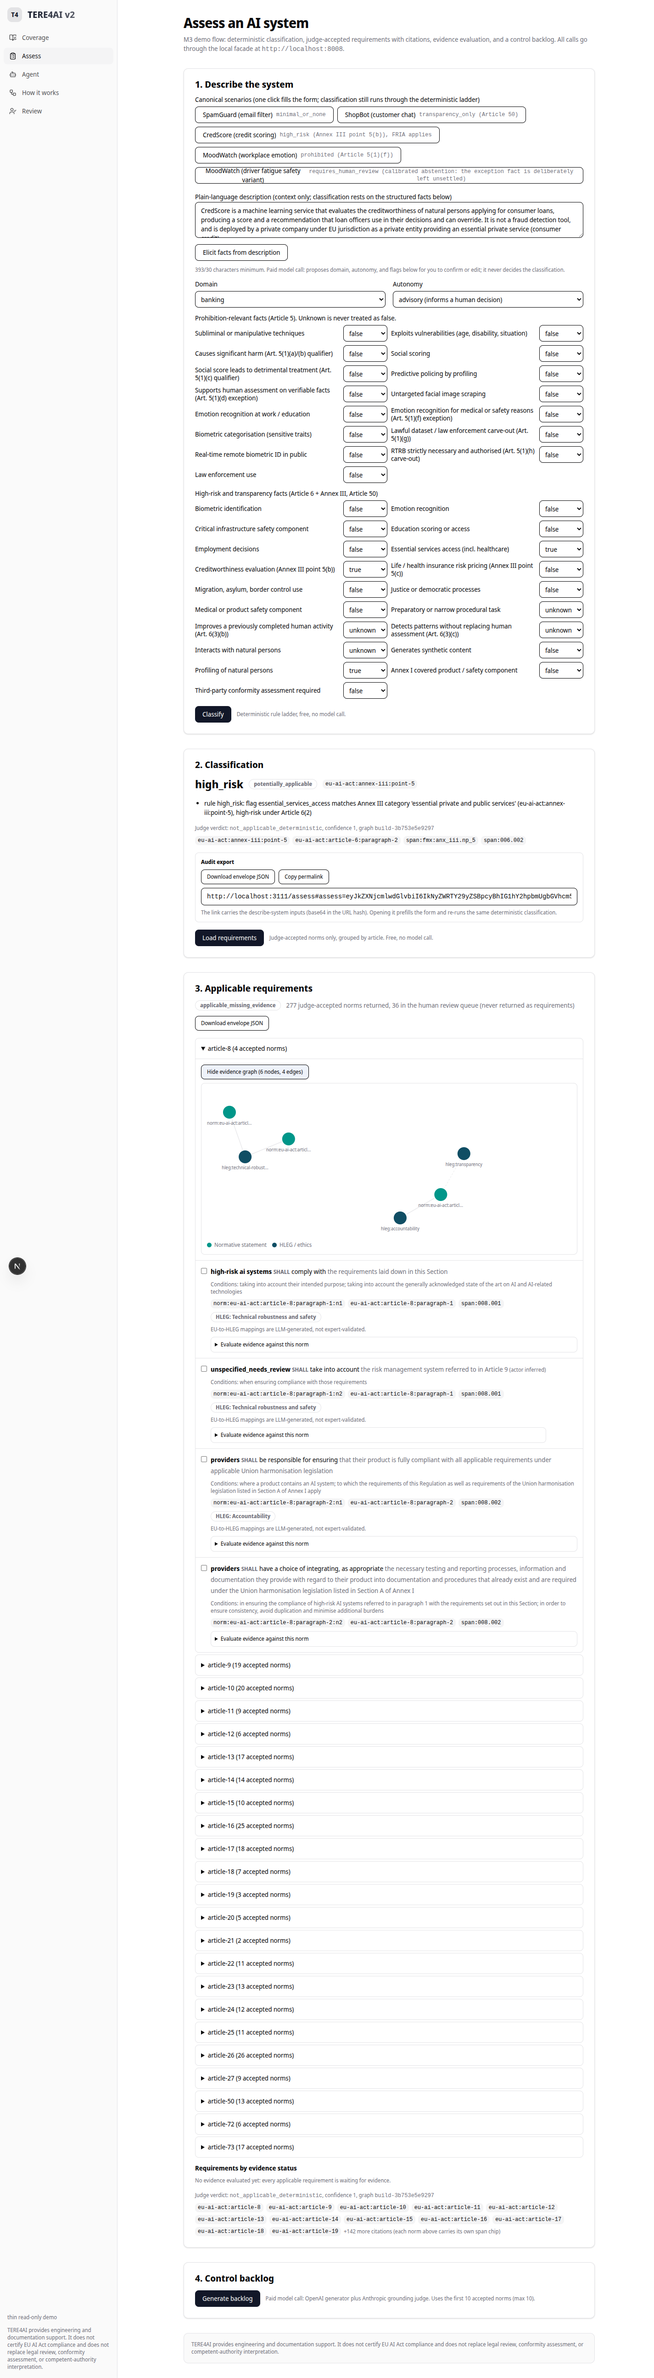
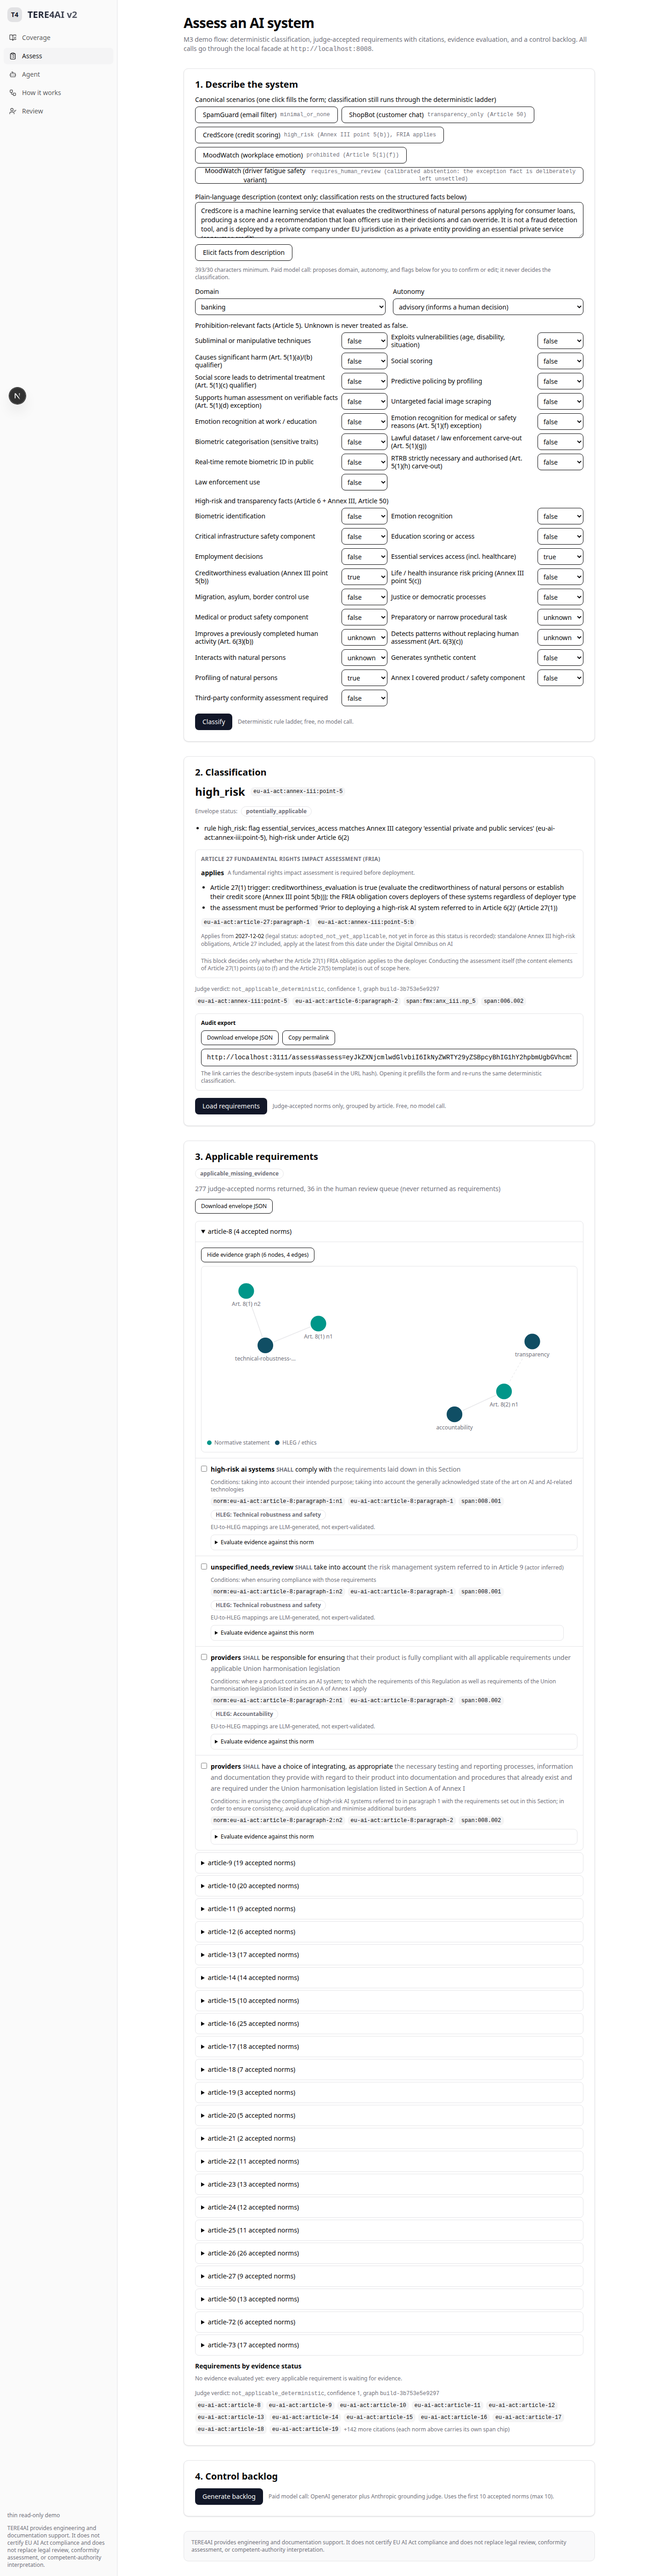
Demo: make the evidence subgraph fit its frame and read as citations
Step 3 of docs/DEMO.md is the evidence subgraph, and on the live demo it
rendered onto a fixed 1400px canvas sized by node count, centred at x=700.
In the ~800px content column that put the cluster half outside the frame:
the audience saw whitespace on the left and a sliced-off graph on the
right, recoverable only by scrolling sideways mid-talk. Labels made it
worse, since truncating shared node id prefixes rendered every norm in an
article group as the same stub ("article-9:paragraph-5...").

The SVG now carries a viewBox fitted to the settled node positions and no
pixel width, so it scales to whatever frame it is in at any window size
and in any accordion state, capped at 520px tall so a dense graph cannot
push the requirement off screen. Labels render as the citation a lawyer
would write ("Art. 9(5)(a) n1"), with the full node id still in the title
and aria-label. Height grows with node count so 25 nodes are not packed
into one flat band.

An intermediate fix measured the frame with a ResizeObserver; a collapsed
accordion measures zero and pinned the layout to the minimum width with no
recovery on reopen, so the measurement is gone entirely and sizing is
deterministic.

Verified live against the keyless stack: all four risk tiers plus the
abstention variant classify correctly, the graph fills its frame with
nothing clipped, node clicks still pull the byte-exact source span, and
the keyless elicit path still degrades to the presenter-safe notice.
[…]

diff --git a/web/src/app/assess/evidence-graph.tsx b/web/src/app/assess/evidence-graph.tsx
@@ -115,12 +115,63 @@ function inferLayer(nodeId: string): Layer {
   return 5;
 }
 
+/* Node ids share long, identical prefixes ("norm:eu-ai-act:article-9:..."),
+   so truncating the raw id from the left rendered every label in an article
+   group as the same unreadable stub ("article-9:paragraph-5…"). Structural
+   ids are rendered as the citation a lawyer would write instead, which is
+   both shorter and the form the rest of the UI already speaks; anything that
+   does not parse falls back to the prefix-stripped id rather than being
+   guessed at. The full id always remains in the node's <title> and
+   aria-label, so this shortens the label without hiding anything. */
 function truncateLabel(id: string, max = 22): string {
-  return id.length > max ? `${id.slice(0, max - 1)}…` : id;
+  const body = id.replace(/^(norm:|align:)/, "").replace(/^eu-ai-act:/, "");
+
+  const article = /^article-(\d+[a-z]?)(.*)$/.exec(body);
+  if (article) {
+    const [, number, rest] = article;
+    return `Art. ${number}${subdivisions(rest)}`;
+  }
+
+  const annex = /^annex-([ivx]+)(.*)$/.exec(body);
+  if (annex) {
+    const [, numeral, rest] = annex;
+    return `Annex ${numeral.toUpperCase()}${subdivisions(rest)}`;
+  }
+
+  const short = body.replace(/^(hleg:|altai:)/, "");
+  return short.length > max ? `${short.slice(0, max - 1)}…` : short;
 }
 
-const HEIGHT = 320;
+/* ":paragraph-5:point-a:n1" renders as "(5)(a) n1". The trailing nN is the
+   norm's index within its provision, kept because one provision routinely
+   yields several distinct normative statements. */
+function subdivisions(rest: string): string {
+  let out = "";
+  for (const [, value] of rest.matchAll(/:(?:paragraph|point|subpoint)-([\w-]+)/g)) {
+    out += `(${value})`;
+  }
+  const normIndex = /:(n\d+)$/.exec(rest);
+  if (normIndex) out += ` ${normIndex[1]}`;
+  return out;
+}
+
+/* The canvas is a LOGICAL coordinate space, not a pixel size: the SVG carries
+   a viewBox and no width attribute, so it always scales to the frame it is
+   rendered into. These constants therefore set the graph's aspect ratio and
+   how much room the force layout has to separate nodes, and nothing here
+   depends on measuring the DOM (an earlier attempt did, and a collapsed
+   accordion measuring zero pinned the layout to a stale width). */
+const MIN_WIDTH = 560;
+const MAX_WIDTH = 1100;
 const NODE_R = 15;
+
+/* Denser graphs need vertical room, otherwise forceCollide packs 25 nodes
+   into one flat band and the labels sit on top of each other. */
+function frameHeight(nodeCount: number): number {
+  if (nodeCount > 18) return 460;
+  if (nodeCount > 10) return 380;
+  return 300;
+}
 
 type SimNode = SimulationNodeDatum & { id: string; layer: Layer };
 type SimLink = SimulationLinkDatum<SimNode> & GraphEvidenceEdge;
@@ -130,14 +181,19 @@ type SimLink = SimulationLinkDatum<SimNode> & GraphEvidenceEdge;
 function layoutGraph(
   nodeIds: string[],
   edges: GraphEvidenceEdge[]
-): { nodes: SimNode[]; links: SimLink[]; width: number } {
+): { nodes: SimNode[]; links: SimLink[]; viewBox: string } {
   const nodes: SimNode[] = nodeIds.map((id) => ({ id, layer: inferLayer(id) }));
   const known = new Set(nodeIds);
   const links: SimLink[] = edges
     .filter((e) => known.has(e.from) && known.has(e.to))
     .map((e) => ({ ...e, source: e.from, target: e.to }));
 
-  const width = Math.min(1400, Math.max(480, nodeIds.length * 100));
+  /* Grows with the node count so a busy graph gets room to spread, but caps
+     well below the old 1400: that cap, combined with a fixed pixel width,
+     drew the cluster centred at 700 half outside a ~900px column, leaving
+     the reader to scroll sideways to find it. */
+  const width = Math.max(MIN_WIDTH, Math.min(nodeIds.length * 100, MAX_WIDTH));
+  const height = frameHeight(nodeIds.length);
 
   const simulation = forceSimulation(nodes)
     .force(
@@ -148,7 +204,7 @@ function layoutGraph(
         .strength(0.5)
     )
     .force("charge", forceManyBody().strength(-260))
-    .force("center", forceCenter(width / 2, HEIGHT / 2))
+    .force("center", forceCenter(width / 2, height / 2))
     .force("collide", forceCollide(NODE_R + 14))
     .stop();
 
@@ -158,10 +214,23 @@ function layoutGraph(
   const pad = NODE_R + 24;
   for (const n of nodes) {
     n.x = Math.min(width - pad, Math.max(pad, n.x ?? width / 2));
-    n.y = Math.min(HEIGHT - pad, Math.max(pad, n.y ?? HEIGHT / 2));
+    n.y = Math.min(height - pad, Math.max(pad, n.y ?? height / 2));
   }
 
-  return { nodes, links, width };
+  /* The settled cluster rarely fills the canvas it was laid out on, so frame
+     the viewBox on the nodes themselves. Without this the graph renders as a
+     small island inside wide empty margins. The horizontal padding leaves
+     room for the centred labels, which are wider than their nodes. */
+  const xs = nodes.map((n) => n.x ?? 0);
+  const ys = nodes.map((n) => n.y ?? 0);
+  const padX = 70;
+  const padY = 34;
+  const minX = Math.min(...xs) - padX;
+  const minY = Math.min(...ys) - padY;
+  const viewWidth = Math.max(Math.max(...xs) + padX - minX, 200);
+  const viewHeight = Math.max(Math.max(...ys) + padY - minY, 160);
+
+  return { nodes, links, viewBox: `${minX} ${minY} ${viewWidth} ${viewHeight}` };
 }
 
 type SpanPanelState = {
@@ -258,14 +327,19 @@ export function EvidenceGraph({
       </button>
       {open && (
         <div className="rounded-md border border-border p-3 space-y-3">
-          <div className="overflow-x-auto">
+          <div>
+            {/* No width attribute on purpose: the viewBox scales the graph to
+                whatever width the frame has, at any window size and in any
+                accordion state, so it can never be clipped out of view. The
+                height cap stops a dense graph pushing the rest of the
+                requirement off the screen; when it binds, the viewBox
+                letterboxes rather than crops. */}
             <svg
-              width={layout.width}
-              height={HEIGHT}
-              viewBox={`0 0 ${layout.width} ${HEIGHT}`}
+              viewBox={layout.viewBox}
+              preserveAspectRatio="xMidYMid meet"
               role="img"
               aria-label="Evidence subgraph: legal, normative, and ethics nodes with their alignment edges"
-              className="block"
+              className="block w-full h-auto max-h-[520px]"
             >
               <g>
                 {layout.links.map((link, i) => {

diff --git a/tests/unit/test_web_copy_honesty.py b/tests/unit/test_web_copy_honesty.py
@@ -127,6 +127,35 @@ def test_page_does_not_claim_a_startup_chain_verification():
     )
 
 
+def test_evidence_graph_svg_scales_to_its_frame():
+    """The evidence subgraph is the demo centerpiece (docs/DEMO.md step 3).
+    It used to render onto a fixed 1400px canvas sized by node count, which
+    in the ~800px content column drew the cluster half outside the frame:
+    the reader saw whitespace and a sliced-off graph until they scrolled
+    sideways. The SVG must therefore carry no pixel width or height (a
+    viewBox plus a full-width class scales it to whatever frame it is in),
+    and the viewBox must be the one fitted to the settled node positions,
+    never a bare "0 0 width height" canvas.
+    """
+    text = (WEB_SRC / "app" / "assess" / "evidence-graph.tsx").read_text(
+        encoding="utf-8"
+    )
+    match = re.search(r"<svg\b(?![^>]*aria-hidden)[^>]*>", text, re.DOTALL)
+    assert match, "the graph <svg> element was not found, has it been rewritten?"
+    svg_tag = match.group(0)
+    assert "viewBox={layout.viewBox}" in svg_tag, (
+        "the graph <svg> no longer uses the fitted viewBox from layoutGraph; a "
+        "canvas-sized viewBox reintroduces the empty-margin and clipping bug"
+    )
+    assert not re.search(r"\bwidth=\{(?!10\b)", svg_tag), (
+        "the graph <svg> sets an explicit width again; a pixel width stops it "
+        "scaling to the content column and clips the graph out of view"
+    )
+    assert "w-full" in svg_tag, (
+        "the graph <svg> must be full width so the viewBox scales it to the frame"
+    )
+
+
 def test_presets_cover_every_schema_flag():
     import sys
 

diff --git a/docs/DEMO.md b/docs/DEMO.md
@@ -64,8 +64,12 @@ Sanity check: `curl localhost:8008/api/health` returns the graph version.
 1. **Coverage** (1 min). Open `http://localhost:3111`. Point at the stat
    tiles (article, recital, and annex counts against the frozen source), the
    judged Layer 2/3 counts with verdicts, and the publication chain id in the
-   footnote, served by the facade and verified at server startup, not
-   computed client side. Expand a chapter to show the browsable structure.
+   footnote, recorded by the build and shown from the served build artifact,
+   not computed client side. Say it that way: the MCP server verifies the
+   chain at startup, the demo facade does not, so the page claims only what
+   it can back (this is what the on-screen wording says too, and the
+   honesty gate holds it there). Expand a chapter to show the browsable
+   structure.
    Fallback: `docs/screenshots/demo-coverage.png`,
    `docs/screenshots/coverage_light.png`, or
    `docs/screenshots/m2-coverage-with-judged-layers.png`.
